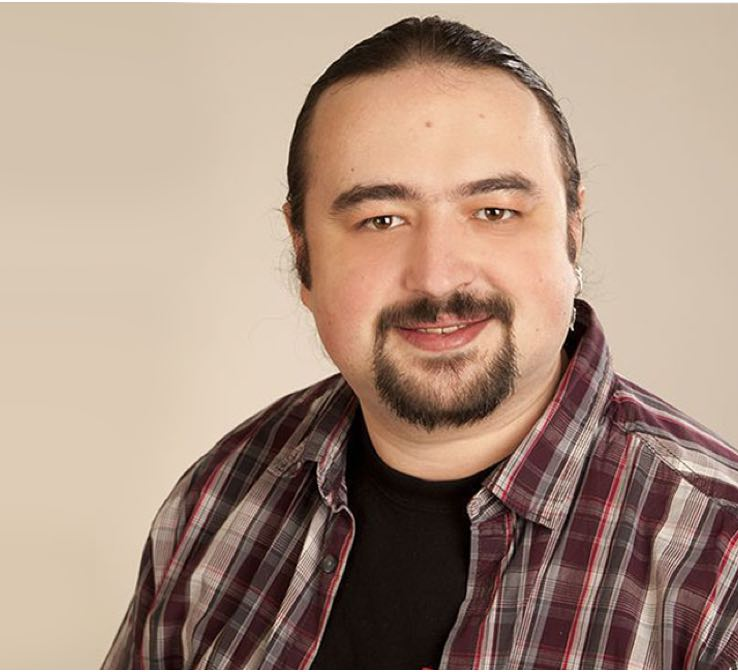
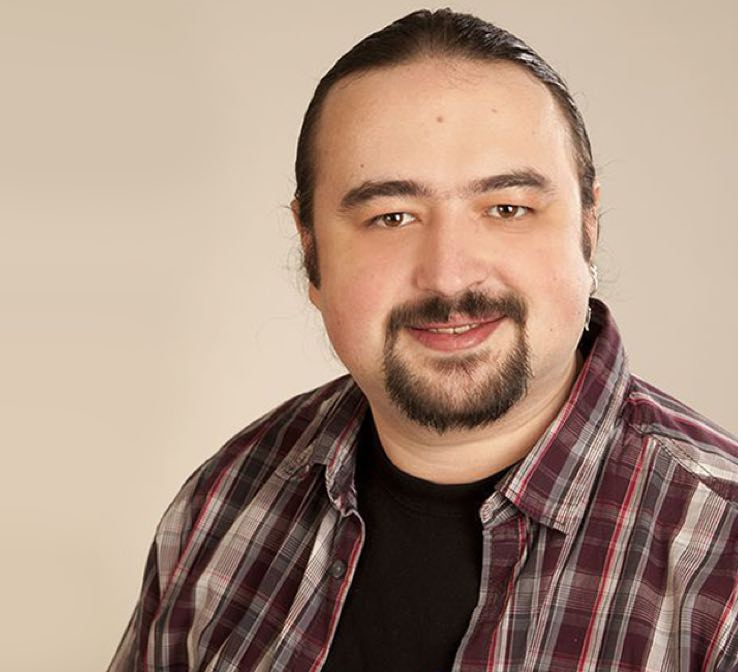
fix: update team page photos

Changed region(s): [[0.1247, 0.0, 1.0, 1.0]]

diff --git a/pages/team.js b/pages/team.js
@@ -22,6 +22,7 @@ const team = [
     bio: `Oleg is a passionate software engineer and speaker who loves innovative ideas and technology, challenging problems and working on things that help other people. Oleg is an author of Sangria - a scala GraphQL implementation.`,
     twitter: 'easyangel',
     github: 'OlegIlyenko',
+    blackAndWhite: true,
   },
   {
     imageUrl: '/static/team/team-2',
@@ -30,6 +31,7 @@ const team = [
     bio: `Johannes is a Berlin/SF-based entrepreneur  and founder of Graphcool, a flexible backend platform combining GraphQL+ AWS Lambda.  He previously built and sold the VR company “Optonaut”. Johannes studied computer science at KIT, Germany and loves cutting- edge mobile/web tech-nologies.`,
     twitter: '_schickling',
     github: 'schickling',
+    blackAndWhite: true,
   },
   {
     imageUrl: '/static/team/team-3',
@@ -51,7 +53,7 @@ const team = [
     imageUrl: '/static/team/team-5',
     imageFormat: 'jpg',
     name: 'Ekaterina Kromina',
-    bio: `Johannes is a Berlin/SF-based entrepreneur  and founder of Graphcool, a flexible backend platform combining GraphQL+ AWS Lambda.  He previously built and sold the VR company “Optonaut”. Johannes studied computer science at KIT, Germany and loves cutting- edge mobile/web tech-nologies.`,
+    bio: `Ekaterina is a Growth Manager at Honeypot. Originally from Moscow, Kate moved to Amsterdam to study management in creative industries. With experience in advertising and cinema, she enjoys making events happen.`,
     twitter: 'kromina_ek',
   },
 ]

diff --git a/components/Person.js b/components/Person.js
@@ -16,11 +16,12 @@ const Person = ({
   bio,
   twitter,
   github,
+  blackAndWhite = false,
   ...props
 }) => (
   <Wrapper {...props}>
     <Tilt options={{ max: 10, scale: 1 }}>
-      <ImageWrapper url={imageUrl} format={imageFormat}>
+      <ImageWrapper url={imageUrl} format={imageFormat} blackAndWhite={blackAndWhite}>
         <img src={`${imageUrl}.${imageFormat}`} />
       </ImageWrapper>
     </Tilt>
@@ -63,6 +64,8 @@ const ImageWrapper = styled.div`
 
   ${boxStyle(false, false)}
   ${p => css`${retinaImage(p.url, 'cover', p.format, undefined, '@2x')}`}
+
+  ${p => p.blackAndWhite && css`filter: saturate(0) brightness(1.02);`}
 
   background-position: center center;
   background-repeat: no-repeat;
